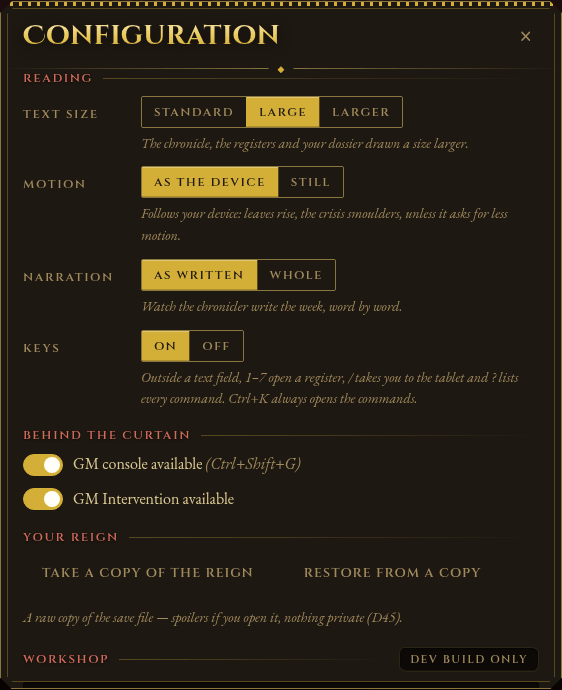
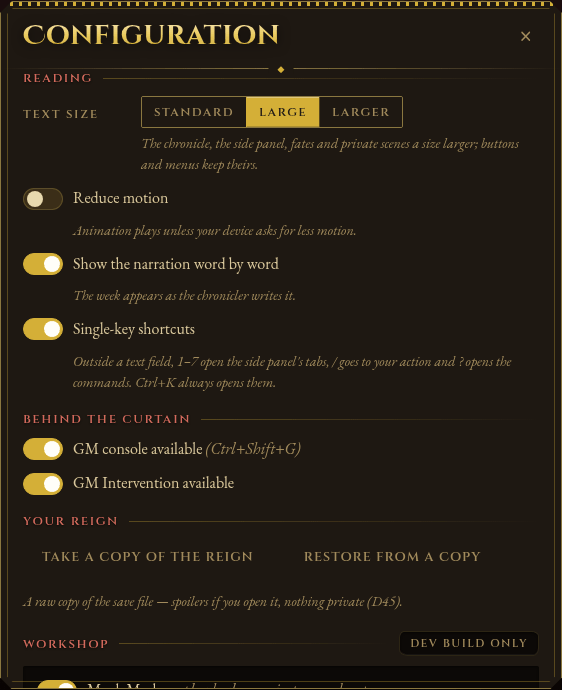
docs(ui): record the best-practice decisions and refresh the screenshots
- ROADMAP_UPLEVEL Part 4: each open design question settled, with the
  principle it rests on and how to reverse it; the open-decisions list
  and Part 3 updated to match.
- BACKLOG veto queue: the current strings, including the Device lighting
  option and its notes.
- DESIGN_DECISIONS D45: a dated factual note on its status-region example
  (the rule is unchanged).
- docs/ui-refresh/16-*.png refreshed; 17-first-visit-light-system.png new.

Claude-Session: https://claude.ai/code/session_0191Nz17FBiGK4pVYk8xpccU

Changed region(s): [[0.0302, 0.1826, 0.9075, 1.0], [0.726, 0.913, 0.9377, 0.9739]]

diff --git a/roadmaps/ROADMAP_UPLEVEL_2026-09.md b/roadmaps/ROADMAP_UPLEVEL_2026-09.md
@@ -199,10 +199,17 @@ already there rather than replacing it.
   which authored event it wove in. That is a schema change; ruling needed.
 - **Turn progress is announced twice**: in the chat loom and in the
   composer's stage line. Which surface keeps the announcement?
+  *Resolved on best practice, 2026-09-28 (Part 4): the composer's stage
+  line.*
 - **The Events tab refusal copy** reuses the dossier's line word for word.
   It is new on this screen, so it goes in the veto queue.
+  *Recommended on best practice (Part 4): keep the shared line. The copy
+  is still the owner's to veto.*
 - **NOX as the default theme.** Is the night skin the right first
   impression? To revert, delete the one small script block in `index.html`.
+  *Resolved on best practice, 2026-09-28 (Part 4): a device that never
+  chose follows the system's appearance. Reverting is now a two-line
+  change (see Part 4).*
 - **CI check names changed** from `ci` to `verify:static`, `verify:unit`
   and `verify:integration`. Update branch protection if it requires `ci`.
 
@@ -218,18 +225,21 @@ touches the save format, the AI pipeline or any ruling in
 `DESIGN_DECISIONS.md`.
 
 - **P5, reading and motion.** A new Reading register in the configuration
-  menu (D43: the single home for options). Text size (Standard / Large /
-  Larger) scales the reading surfaces only: the chronicle, the registers,
-  the player's dossier and the tablet. Motion: "Still" turns off every
-  animation and the gliding scroll, even when the device does not ask for
-  less motion. Narration: "Whole" keeps the loom up instead of streaming
-  the pen. Keys: single-key shortcuts can be turned off (WCAG 2.1.4). All
-  four are device preferences (`persistence/readingPrefs.ts`), painted on
-  `<html>` as data attributes (absent by default, so a device that never
+  menu (D43: the single home for options). As amended in Part 4, it has
+  four controls:
+  - *Text size* (Standard / Large / Larger) scales everything the player
+    reads (the chronicle, the side panel, the dossier, fates, private
+    scenes, the narration log), not the chrome.
+  - *Reduce motion* turns off every animation and the gliding scroll, even
+    when the device does not ask for less motion.
+  - *Show the narration word by word*, turned off, keeps the loom up
+    instead of streaming the pen.
+  - *Single-key shortcuts* can be turned off (WCAG 2.1.4).
+
+  All four are device preferences (`persistence/readingPrefs.ts`), painted
+  on `<html>` as data attributes (absent by default, so a device that never
   chose renders as before) and seeded in `index.html` before first paint.
-  *Not done:* the double progress announcement (the loom and the
-  composer's stage line) is still an open owner decision (see "Open owner
-  decisions" above).
+  The double progress announcement is settled in Part 4.
 - **P6, what changed since you last looked.** A pulsing tab now shows how
   many perceived changes landed on it, as a gold coin and in its
   accessible name ("Reports (2 new)"). The count comes from the same
@@ -237,10 +247,10 @@ touches the save format, the AI pipeline or any ruling in
   `hooks/usePlayerPerception.ts`), so it can say nothing the Dispatches
   card did not. Personae counts relationship observations only (D36).
 - **A command palette** (Ctrl+K / ⌘K, the masthead's Commands button, or
-  `?`). It reaches the seven registers (with their counts), the tablet, a
-  private scene, the narration log, the week's counsel, the latest line,
-  the configuration and, when on, the Fates' ledger. Outside a text field,
-  1–7 open the registers and `/` goes to the tablet. It only reaches
+  `?`). It reaches the side panel's seven tabs (with their counts), the
+  tablet, a private scene, the narration log, the week's counsel, the
+  latest line, Settings and, when on, the GM log. Outside a text field,
+  1–7 open the tabs and `/` goes to the tablet. It only reaches
   things, never sets an option (D43), and offers only what can run now.
   Each command presses the same control the player would
   (`app/domCommands.ts`), so every guard on those controls still applies.
@@ -249,8 +259,8 @@ touches the save format, the AI pipeline or any ruling in
   (`hooks/useChatFollow.ts`). The old hook scrolled to the bottom on every
   change, yanking a reader who had scrolled back, and never followed the
   streamed narration. Now it follows the pen while you are at the foot,
-  always returns you there when you send a week, and otherwise offers "To
-  the latest" (gold "New in the chronicle" once something has landed).
+  always returns you there when you send a week, and otherwise offers "Back
+  to the latest" (gold "New in the chronicle" once something has landed).
 - **The screen gives the chronicle its height back.** On the game screen
   the masthead is compact (about 40px back). The player's dossier folds to
   its name line (a device preference). The tablet takes the full width of
@@ -266,3 +276,126 @@ zero warnings, the deterministic eval and the build all pass. The main
 chunk grew by about 11 kB (3.9 kB gzipped); the palette is its own 3.6 kB
 chunk. Screenshots: `docs/ui-refresh/16-*.png`.
 
+---
+
+## Part 4 — Design review: open questions settled on best practice (2026-09-28)
+
+The open design questions from Part 3 were settled on design best practice
+rather than left open, as this pass was asked to. Each entry names the question,
+the answer, the principle it rests on, and how to reverse it. None of these
+changes a ruling in `DESIGN_DECISIONS.md`. All new or changed copy is in the
+veto queue (`BACKLOG.md`, "Reading, motion and the command palette").
+
+**Turn progress is announced once, by the composer's stage line.** The loom
+sat inside the chat log (`role="log"`) as a live region of its own, so a
+screen reader heard each stage twice. When the stage line is created at the
+same moment as its message, the first stage is often not heard at all.
+- *Principle:* one status message, one live region (WCAG 4.1.3). A live
+  region must exist before its message arrives (ARIA practice; this repo
+  already applies it to the API-key notice).
+- *What changed:* the stage line is always in the DOM. It is visually hidden
+  and empty while idle. The loom is drawn but not spoken (`aria-hidden`),
+  the same call as the streaming bubble beside it.
+- *Why this surface:* it lasts the whole turn, in both narration modes (the
+  loom gives way to the pen as soon as narration streams). It sits where
+  the week was sent. The code already named it the progress voice while
+  streaming.
+- *To reverse:* restore `role="status"` on `.gor-loom` and conditional
+  rendering in `TurnComposer`.
+
+**The character count is no longer a live region.** As one, it
+re-announced itself after every keystroke. That is the chatter the GOV.UK
+character-count pattern exists to prevent.
+- *What changed:* the count still describes the tablet (read with it when
+  focused). Going over the limit or an invalid draft still interrupts as an
+  alert.
+
+**On/off preferences are switches, and no two controls share a label.**
+Reduce motion, Show the narration word by word, and Single-key shortcuts
+are switches. Text size keeps its three-way radio group.
+- *Principle:* a binary setting that takes effect at once is a switch
+  (NN/g, Apple HIG, Material). Its visible label is its accessible name
+  (WCAG 2.5.3). "Reduce motion" is the platforms' own term.
+- *What it fixes:* the first cut's "As written" / "Whole" collided with
+  Voice style's "As written". A mismatch between the visible label "Keys"
+  and the accessible name is also gone.
+- *Storage:* the stored values are unchanged, so earlier choices survive.
+
+**The economy meter shows no direction arrow.**
+- *Principle:* D26, the system is an honest window. An arrow needs last
+  week's value, and none is kept: the pre-turn snapshot lives only in
+  session, so an arrow that vanished on reload would be worse than none.
+- *What stands:* the level (five pips) and the fact of change (✦ "Changed
+  this week") are shown. The Dispatches card says what changed.
+- *To add trends honestly later:* a bounded per-week history of the two
+  macro values in the save, through the migration registry. That would
+  also feed the sparkline in UI_SYSTEMS 6.5.
+
+**Copy speaks the screen's own words.** The palette and the Reading notes
+had leaked the code's vocabulary: "registers" for the tabs the onboarding
+calls "the side panel", "the desk", "the house".
+- *Principle:* recognition over recall, and one name per action (Nielsen
+  #2 and #4).
+- *Labels match what they press:* Open Settings, Open a private scene,
+  Open the GM log. "Back to the latest" is the same words on the palette
+  row and the follow button.
+- *Grammar:* the placeholder read "a counsel". It is now "Seek a tab, a
+  tool or counsel…".
+- *Platform wording:* the chord is written ⌘K on Apple devices and Ctrl+K
+  elsewhere.
+
+**Keys work on every keyboard layout.** Single keys match the character
+typed and ignore Shift: `/` is Shift+7 on German keyboards, and the digits
+are shifted on French AZERTY. Ctrl+K falls back to the physical K key when
+the layout types another script (Cyrillic, Greek).
+
+**The palette is accessible in the details.**
+- Each option is named in words ("Reports, 2 new"), not by its run-together
+  text.
+- The listbox holds only groups and options; the empty state moved outside
+  it.
+- The number of matching commands is announced once typing pauses (GOV.UK
+  autocomplete pattern), never per keystroke.
+- The active row keeps a visible outline in forced-colours mode.
+- The search affordance is an inline SVG magnifier. The ❖ glyph had fallen
+  back to a bare ◆, which read as ornament on phones, where the button's
+  word is hidden.
+- The fold chevron shows its name on hover.
+
+**Counsel is set to be read.** The suggestions had shrunk to 11.5px display
+capitals. Long all-caps text costs legibility, and these are sentences the
+player reads to decide. They now use the body face, in sentence case, at
+15px, inside the same pill frame.
+
+**Text size covers everything the player reads.** That means fates, the
+private-scene transcript and the narration log, beside the chronicle, the
+side panel and the dossier. The note states the scope. A dialog taller than
+the window now scrolls from its top instead of being clipped at both ends.
+- *Why it matters:* a fate has no close control, so on a short screen, or
+  at a larger size, its choices must stay reachable (WCAG 1.4.10).
+
+**First visit follows the system's appearance.** A light system opens on
+LVX; a dark one, or one that does not say, on NOX. An explicit choice
+always wins. Until the player makes one, the lighting follows the system
+as it changes. The Lighting control gains "◐ Device": the default for a
+device that never chose, and the way back to following the system after
+a choice. Without it, following the system would be a one-way door.
+- *Principle:* Apple HIG and Material both say to respect the system
+  appearance when an app ships both, and to offer "follow the system"
+  beside light and dark. People who need light or dark for their eyes
+  set it there.
+- *Returning players:* the old script stored "nox" on first visit, so they
+  keep what they saw.
+- *To open every new device on NOX again:* treat a null `gor-theme` as
+  'nox' in the `index.html` script and in `resolveLighting`
+  (`hooks/useSettings.ts`).
+
+**The Events tab refusal copy (recommendation only).** Reusing the
+dossier's line is right: the same refusal should read the same everywhere
+(Nielsen #4, consistency). No change was made; the owner keeps the veto.
+
+Checks after Part 4: 2466 unit tests (from 2450), 10 journeys, typecheck,
+lint with zero warnings, the deterministic eval and the build all pass.
+Over Parts 3 and 4 together the main chunk grew by about 12.5 kB (4.4 kB
+gzipped); the palette is its own 4 kB chunk. Screenshots:
+`docs/ui-refresh/16-*.png` (refreshed) and `17-first-visit-light-system.png`.

diff --git a/roadmaps/BACKLOG.md b/roadmaps/BACKLOG.md
@@ -974,54 +974,73 @@ Nothing here blocks; all are one edit from rewording.
     answer." (replaces the READERS ask), and "VOICES ALREADY TAKEN
     (JSON-quoted data - give the cast other voices while any suitable one
     remains):" in a full cast.
-- **Reading, motion and the command palette (2026-09-28)** — the UI pass
+- **Reading, motion and the command palette (2026-09-28)**: the UI pass
   that shipped ROADMAP_UPLEVEL P5 (reading and motion settings) and P6
   (per-tab "what changed" counts), a command palette, a chat log that
   stops yanking a reader who scrolled back, and a game screen that gives
-  the chronicle its height back. Every string below is new player-visible
-  copy; each lives in one exported constant, named here, so a rewording is
-  one edit.
+  the chronicle its height back. The copy was reworked the same day on
+  design best practice (ROADMAP_UPLEVEL Part 4): labels in the player's
+  vocabulary, one name per action, switches for on/off preferences. Every
+  string below is new player-visible copy. Each lives in one exported
+  constant, named here, so a rewording is one edit.
   - *Settings → Reading* (`components/ReadingSettings.tsx`,
-    `READING_SETTINGS_COPY`): the register "Reading"; "Text size" with
-    "Standard" / "Large" / "Larger" and the notes "The chronicle and the
-    registers at their written size." / "The chronicle, the registers and
-    your dossier drawn a size larger." / "…two sizes larger."; "Motion"
-    with "As the device" / "Still" and "Follows your device: leaves rise,
-    the crisis smoulders, unless it asks for less motion." / "Nothing moves
-    that need not: no rising leaves, no smoulder, no gliding scroll.";
-    "Narration" with "As written" / "Whole" and "Watch the chronicler write
-    the week, word by word." / "The week appears once it is written; the
-    loom shows the work meanwhile."; "Keys" (a radiogroup named
-    "Single-key shortcuts") with "On" / "Off" and "Outside a text field,
-    1–7 open a register, / takes you to the tablet and ? lists every
-    command. Ctrl+K always opens the commands." / "Single keys do nothing.
-    Ctrl+K still opens the commands." ("As written" is also a Voice style
-    option; the two sit in different registers and mean different things.)
+    `READING_SETTINGS_COPY`):
+    - The register is "Reading".
+    - "Text size": "Standard" / "Large" / "Larger", noted "The chronicle,
+      the side panel, fates and private scenes at their written size; /
+      a size larger; / two sizes larger; buttons and menus keep theirs."
+    - Switch "Reduce motion": off "Animation plays unless your device asks
+      for less motion."; on "Nothing moves that need not: no rising leaves,
+      no smoulder, no gliding scroll."
+    - Switch "Show the narration word by word": on "The week appears as the
+      chronicler writes it."; off "The week appears whole once it is
+      written; the loom shows the work meanwhile."
+    - Switch "Single-key shortcuts": on "Outside a text field, 1–7 open the
+      side panel's tabs, / goes to your action and ? opens the commands.
+      <Ctrl+K | ⌘K> always opens them."; off "Single keys do nothing.
+      <Ctrl+K | ⌘K> still opens the commands."
   - *The command palette* (`components/CommandPalette.tsx`,
-    `COMMAND_PALETTE_COPY`; `app/commands.ts`, `COMMAND_COPY`): dialog
-    "Commands"; field "Seek a command", placeholder "Seek a register, a
-    tool, a counsel…"; "No command answers to that."; foot "↑ ↓ to choose ·
-    Enter to act · Esc to close"; close "Close the commands". Groups
-    "Registers", "The desk", "Counsel", "The house". Commands: each
-    register's full name (with "<N> new" beside it), "Write your action",
-    "Seek a private audience", "Open the narration log", "Return to the
-    latest in the chronicle", "Draft: <counsel>", "Open the
-    configuration", "Open the Fates' ledger".
-  - *The masthead* (`components/Header.tsx`, `HEADER_COPY`): "Commands"
-    (button name "Open the command palette"), and "Changed this week" (the
-    ✦ beside a world stat a public 'world' delta moved last week). The
-    Settings button's hover title gains "reading": "Configuration — API
-    key, pacing, lighting, reading, GM console".
-  - *The side panel*: a pulsing tab's name becomes "<Tab> (<N> new)"
-    (`components/SidePanel.tsx`, `tabAriaLabel`; the older "(new
-    intelligence)" stays where no count is known). The dossier's fold
-    control, "Your goal and state" (`components/PlayerStatus.tsx`,
-    `PLAYER_STATUS_COPY`). The Imperial Dispatch keeps every word; its 📜
-    emoji is replaced by a small crimson seal.
-  - *The desk*: "Counsel" over the week's suggested actions
-    (`components/TurnComposer.tsx`, `TURN_COMPOSER_COPY`); "To the latest"
-    and, once a leaf has landed unseen, "New in the chronicle"
-    (`hooks/useChatFollow.ts`, `CHAT_FOLLOW_COPY`).
+    `COMMAND_PALETTE_COPY`; `app/commands.ts`, `COMMAND_COPY`):
+    - The dialog is "Commands", its field "Seek a command", with the
+      placeholder "Seek a tab, a tool or counsel…".
+    - Empty state "No command answers to that."; a screen reader hears "<N>
+      command(s)" once typing pauses.
+    - Foot "↑ ↓ to choose · Enter to act · Esc to close"; close button "Close
+      the commands".
+    - Groups: "Side panel", "Actions", "Counsel", "Settings", "Behind the
+      curtain".
+    - Commands: each tab's full name (with "<N> new" beside it), "Write your
+      action", "Open a private scene", "Open the narration log", "Back to
+      the latest", "Draft: <counsel>", "Open Settings", "Open the GM log".
+  - *Settings → Lighting* (`components/SettingsMenu.tsx`, `LIGHTING_COPY`):
+    - A third option, "◐ Device" (hover title "Follow this device — light or
+      dark"), before "☼ LVX" / "☾ NOX". The group is named "Lighting: follow
+      this device, marble day or torchlit night".
+    - Notes: "Follows this device's light or dark appearance. Never part of
+      your save." / "Kept on this device, whatever its appearance. Never
+      part of your save." These replace "A device preference, never part of
+      your save." where the choice is offered.
+  - *The masthead* (`components/Header.tsx`, `HEADER_COPY`):
+    - "Commands", with the button name "Open the command palette", and a
+      magnifier icon.
+    - "Changed this week", the ✦ beside a world stat that a public 'world'
+      delta moved last week.
+    - The Settings button's hover title gains "reading": "Configuration —
+      API key, pacing, lighting, reading, GM console".
+  - *The side panel*:
+    - A pulsing tab's name becomes "<Tab> (<N> new)"
+      (`components/SidePanel.tsx`, `tabAriaLabel`). The older "(new
+      intelligence)" stays where no count is known.
+    - The dossier's fold control is "Your goal and state", shown on hover
+      too (`components/PlayerStatus.tsx`, `PLAYER_STATUS_COPY`).
+    - The Imperial Dispatch keeps every word; its 📜 emoji is replaced by a
+      small crimson seal.
+  - *The desk*:
+    - "Counsel" labels the week's suggested actions, which are now set in
+      the body face in sentence case (`components/TurnComposer.tsx`,
+      `TURN_COMPOSER_COPY`).
+    - "Back to the latest" and, once a leaf has landed unseen, "New in the
+      chronicle" (`hooks/useChatFollow.ts`, `CHAT_FOLLOW_COPY`).
 ---
 
 ## Residuals from the visual-enhancement pass (WP-1…WP-21 + adversarial review)

diff --git a/roadmaps/DESIGN_DECISIONS.md b/roadmaps/DESIGN_DECISIONS.md
@@ -638,7 +638,10 @@ The half-commit line ("the turn was saved, but a follow-up step failed") is
 reassurance, and a screen reader announcing it as an error was a defect, not
 a styling choice. Corollary for tests: `role="status"` is NOT unique on a
 screen — the composer's character count uses it — so a status assertion must
-be scoped by what it says, never by counting.
+be scoped by what it says, never by counting. *(Factual update, 2026-09-28:
+the example is now the composer's always-present stage line; the character
+count stopped being a live region, per ROADMAP_UPLEVEL_2026-09.md Part 4.
+The rule is unchanged.)*
 
 **A failure never takes the room.** Nothing in this pass is modal. The
 player's unsent words are the most valuable thing on the screen and stay
